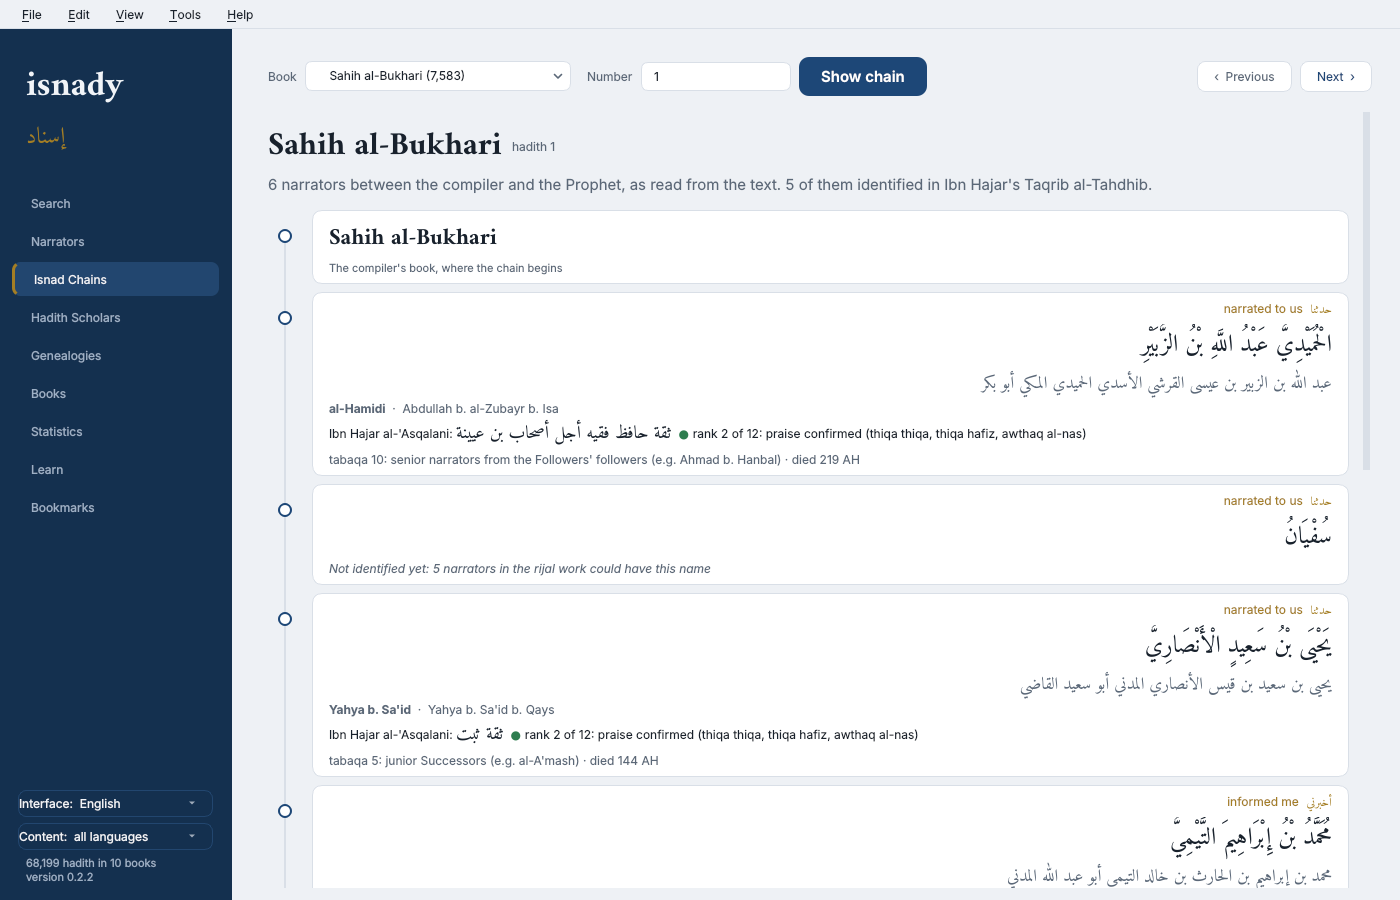
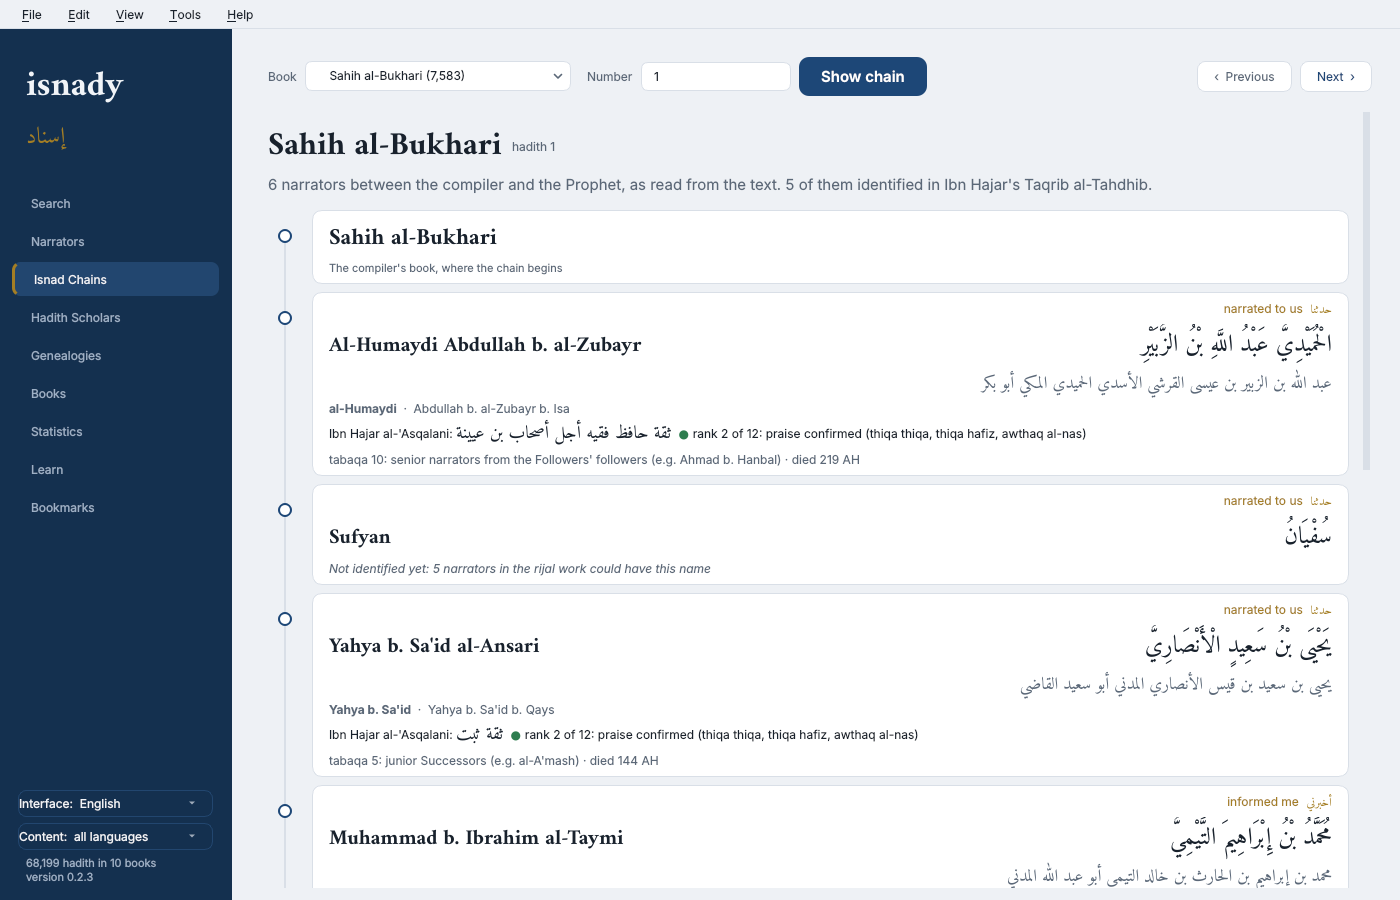
Isnad Chains: every name in Latin letters beside its Arabic
Each link of the chain shows the name as it is written in the chain, read in Latin letters on the left of the Arabic, where the card stood empty: Abu Kamil, Hammad (that is, Ibn Salama), Ibn Abi Atiq; also for the links not identified in the rijal works.

A link that names no one by name is said in words: his father, his grandfather, his uncle, a man, a shaykh, one of our companions, a group of our companions. A word not in isnady's list of names is spelled letter by letter and marked with an approximately sign, its short vowels a guess.

Turkish readings in the Turkish interface, English in the others; the Arabic-script interfaces keep the Arabic alone. core.isnad.name_reading; two words added to the name list (Atiq, al-Humaydi). README chain screenshots retaken; CHANGELOG Unreleased.

diff --git a/src/isnady/core/isnad.py b/src/isnady/core/isnad.py
@@ -563,6 +563,62 @@ def short_name(raw_name: str) -> str:
     return name.strip(" ،,-")
 
 
+# a link that names no one by name, only by kinship or as "a man": said in words, not spelled
+_KIN = {
+    "ابيه": ("babası", "his father"), "امه": ("annesi", "his mother"), "جده": ("dedesi", "his grandfather"),
+    "جدته": ("ninesi", "his grandmother"), "عمه": ("amcası", "his paternal uncle"),
+    "خاله": ("dayısı", "his maternal uncle"), "اخيه": ("kardeşi", "his brother"), "اخته": ("kız kardeşi", "his sister"),
+    "ابنه": ("oğlu", "his son"), "مولاه": ("mevlâsı (azatlısı)", "his mawla"), "رجل": ("bir adam", "a man"),
+    "شيخ": ("bir şeyh", "a shaykh"), "امراه": ("bir kadın", "a woman"),
+    "غير واحد": ("birden çok râvi", "more than one narrator"),
+    "بعض اصحابه": ("arkadaşlarından biri", "one of his companions"),
+    "بعض اصحابنا": ("arkadaşlarımızdan biri", "one of our companions"),
+    "عده من اصحابنا": ("arkadaşlarımızdan bir topluluk", "a group of our companions"),
+    "جماعه من اصحابنا": ("arkadaşlarımızdan bir cemaat", "a number of our companions"),
+}
+
+
+def name_reading(raw_name: str, language: str = "tr") -> tuple[str, bool]:
+    """A chain link's name in Latin letters as it is written in the chain — "حماد يعني ابن سلمة" → "Hammâd (yani
+    İbn Seleme)", "أبيه" → "babası", "ابن أبي عتيق" → "İbn Ebî Atîk". (text, spelled): spelled when a word was not
+    in the word list and was spelled letter by letter (its short vowels a guess). Turkish or English."""
+    from isnady.core import names
+    from isnady.core.normalize import normalize
+
+    lang = "tr" if language == "tr" else "en"
+    parts = re.split(r"\s*[،,]?\s*-?\s*(?:يَعْنِي|يعني)\s+", raw_name.strip(" ،,-"), maxsplit=1)
+    outs, spelled = [], False
+    for part in parts:
+        part = re.split(r"\s*[،,]?\s*-\s*(?:هُوَ|هو)\s|\s{2,}(?:هُوَ|هو)\s", part)[0].strip(" ،,-")
+        key = normalize(part)
+        if key in _KIN:
+            outs.append(_KIN[key][0 if lang == "tr" else 1])
+            continue
+        words = part.split()
+        if words and normalize(words[0]) == "ابن":
+            rest = words[1:]
+            head = "İbn" if lang == "tr" else "Ibn"
+            if rest and normalize(rest[0]) in ("ابي", "ابو", "ابا"):
+                head += " Ebî" if lang == "tr" else " Abi"
+                rest = rest[1:]
+            text, guessed = names.reading(" ".join(rest), lang) if rest else ("", False)
+            outs.append(f"{head} {text}".strip())
+            spelled = spelled or guessed
+            continue
+        text, guessed = names.reading(part, lang)
+        if text:
+            outs.append(text)
+            spelled = spelled or guessed
+    if not outs:
+        return "", False
+    # after عن the name stands in the genitive (أبي هريرة); read as a name it is Abu Hurayra
+    outs = [("Abu " + o[4:]) if o.startswith("Abi ") else o for o in outs]
+    outs[0] = outs[0][:1].upper() + outs[0][1:]
+    if len(outs) == 2:
+        return f"{outs[0]} ({'yani' if lang == 'tr' else 'that is,'} {outs[1]})", spelled
+    return outs[0], spelled
+
+
 def hadith_id(conn: sqlite3.Connection, book: str, number: str) -> int | None:
     row = conn.execute(
         "SELECT h.id FROM hadiths h JOIN collections c ON c.id = h.collection_id WHERE c.key = ? AND h.number = ?",

diff --git a/src/isnady/gui/chain_widgets.py b/src/isnady/gui/chain_widgets.py
@@ -187,7 +187,32 @@ class ChainNode(QWidget):
         name.setTextInteractionFlags(Qt.TextInteractionFlag.TextSelectableByMouse)
         if full_name and full_name != title:
             name.setToolTip(full_name)
-        box.addWidget(name)
+        reading = None
+        if not latin and not prophet and not i18n.rtl():
+            # the name in Latin letters beside the Arabic, as it is written in the chain (Bayram, 2026-10-11:
+            # the space on the left stood empty)
+            text, spelled = core_isnad.name_reading(full_name or title, i18n.language())
+            if text:
+                reading = QLabel(html.escape(text) + (" <span style='color:%s'>≈</span>" % theme.current().muted
+                                                      if spelled else ""))
+                reading.setObjectName("NodeReading")
+                reading.setTextFormat(Qt.TextFormat.RichText)
+                reading.setFont(theme.reading_font(16, bold=True, scaled=True))
+                reading.setWordWrap(True)
+                reading.setAlignment(Qt.AlignmentFlag.AlignLeft | Qt.AlignmentFlag.AlignAbsolute
+                                     | Qt.AlignmentFlag.AlignVCenter)
+                reading.setTextInteractionFlags(Qt.TextInteractionFlag.TextSelectableByMouse)
+                reading.setToolTip(tr("The name as it is written in the chain, in Latin letters.")
+                                   + ("\n" + tr("≈ a word not in isnady's list of names was spelled letter by "
+                                                 "letter: its short vowels are a guess.") if spelled else ""))
+        if reading is not None:
+            line = QHBoxLayout()
+            line.setSpacing(16)
+            line.addWidget(reading, 1)
+            line.addWidget(name, 1)
+            box.addLayout(line)
+        else:
+            box.addWidget(name)
         if subtitle:
             sub = QLabel(subtitle)
             sub.setObjectName("Caption")

diff --git a/src/isnady/core/names_lexicon.py b/src/isnady/core/names_lexicon.py
@@ -83,7 +83,7 @@ WORDS = {
     "ثعلبة": ("Sa'lebe", "Tha'laba"), "المبارك": ("el-Mübârek", "al-Mubarak"), "زريع": ("Zürey'", "Zuray'"), "عبيدة": ("Ubeyde", "Ubayda"),
     "شريح": ("Şüreyh", "Shurayh"), "رباح": ("Rebâh", "Rabah"), "وكيع": ("Vekî'", "Waki'"), "جبر": ("Cebr", "Jabr"),
     "سيرين": ("Sîrîn", "Sirin"), "واقد": ("Vâkıd", "Waqid"), "مليح": ("Melîh", "Malih"), "هاشم": ("Hâşim", "Hashim"),
-    "وقاص": ("Vakkâs", "Waqqas"), "عتبة": ("Utbe", "Utba"), "الحميد": ("el-Hamîd", "al-Hamid"), "طالب": ("Tâlib", "Talib"),
+    "وقاص": ("Vakkâs", "Waqqas"), "عتبة": ("Utbe", "Utba"), "عتيق": ("Atîk", "Atiq"), "الحميدي": ("el-Humeydî", "al-Humaydi"), "الحميد": ("el-Hamîd", "al-Hamid"), "طالب": ("Tâlib", "Talib"),
     "مجاهد": ("Mücâhid", "Mujahid"), "عياض": ("İyâz", "Iyad"), "المجيد": ("el-Mecîd", "al-Majid"), "هشيم": ("Hüşeym", "Hushaym"),
     "عيينة": ("Uyeyne", "Uyayna"), "عبادة": ("Ubâde", "Ubada"), "النضر": ("en-Nadr", "al-Nadr"), "زهير": ("Züheyr", "Zuhayr"),
     "شعيب": ("Şuayb", "Shu'ayb"), "المنكدر": ("el-Münkedir", "al-Munkadir"), "شيبان": ("Şeybân", "Shayban"), "يعلى": ("Ya'lâ", "Ya'la"),

diff --git a/CHANGELOG.md b/CHANGELOG.md
@@ -3,6 +3,15 @@
 Every release of isnady carries one version number on GitHub, PyPI and npm. The text of each GitHub Release
 is taken from its section here.
 
+## [Unreleased]
+
+- **Isnad Chains: every name in Latin letters beside its Arabic.** Each link of the chain shows the name as it is
+  written in the chain, read in Latin letters on the left of the Arabic (it stood empty): Ebû Kâmil, Hammâd (yani
+  İbn Seleme), İbn Ebî Atîk; a link that names no one by name is said in words — أبيه "his father", رجل "a man",
+  عدة من أصحابنا "a group of our companions". A word not in isnady's list of names is spelled letter by letter and
+  marked ≈ (its short vowels a guess). Shown in every left-to-right interface; Turkish readings in Turkish, English
+  in the others. `core.isnad.name_reading`.
+
 ## [0.2.3] — 2026-10-11
 
 - **Interface languages — 58 in the list:** the language of Azerbaijan is named **Azərbaycan türkcəsi** in its own
